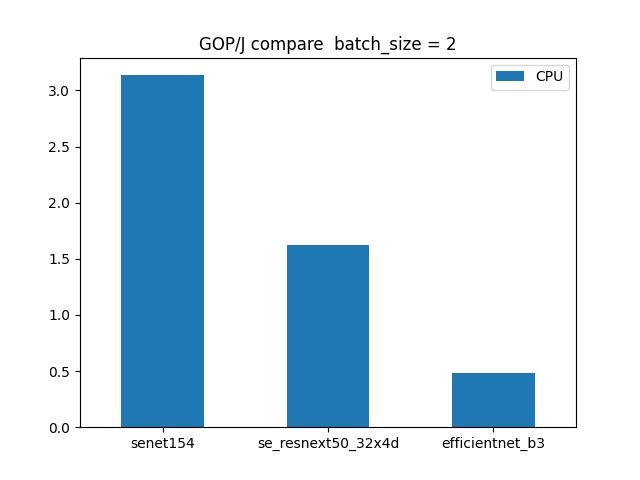
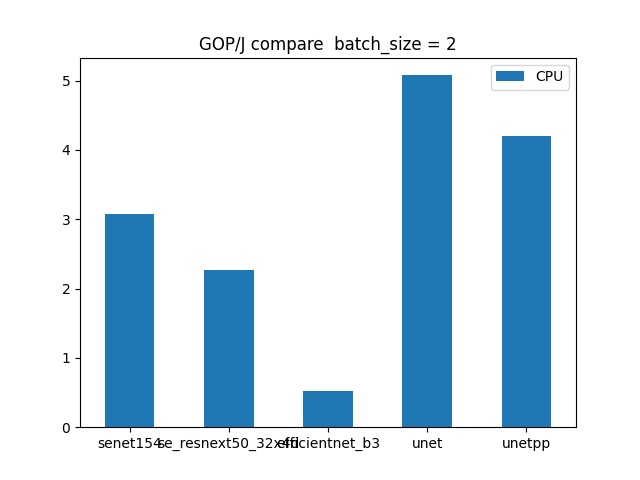
add unet-family

diff --git a/pretrained_models/models/unet.py b/pretrained_models/models/unet.py
@@ -1,120 +1,139 @@
 """
 unet.py - Model and module class for unet model
 """
-
+from os.path import samefile
 import torch
 import torch.nn as nn
 import torch.nn.functional as F
 from torch.utils import model_zoo
+import time
 
-PretrainedURL = ""
+PretrainedURL = r"C:\Users\10125\.cache\torch\hub\checkpoints\unet_carvana_scale1_epoch5.pth"
 __all__ = ["unet"]
 
 class DoubleConv(nn.Module):
-    def __init__(self, ch_in, ch_out, bilinear = False):
+    """(convolution => [BN] => ReLU) * 2"""
+
+    def __init__(self, in_channels, out_channels, mid_channels=None):
         super().__init__()
-        ch_mid = ch_out * 2 if bilinear else ch_out
+        if not mid_channels:
+            mid_channels = out_channels
         self.double_conv = nn.Sequential(
-            nn.Conv2d(ch_in, ch_mid, 3),
-            nn.BatchNorm2d(ch_mid),
+            nn.Conv2d(in_channels, mid_channels, kernel_size=3, padding=1),
+            nn.BatchNorm2d(mid_channels),
             nn.ReLU(inplace=True),
-            nn.Conv2d(ch_mid, ch_out, 3),
-            nn.BatchNorm2d(ch_out),
+            nn.Conv2d(mid_channels, out_channels, kernel_size=3, padding=1),
+            nn.BatchNorm2d(out_channels),
             nn.ReLU(inplace=True)
         )
 
     def forward(self, x):
-        x = self.double_conv(x)
-        return x
+        return self.double_conv(x)
 
-class DownSample(nn.Module):
-    def __init__(self, ch_in, ch_out, biliner = False):
+
+class Down(nn.Module):
+    """Downscaling with maxpool then double conv"""
+
+    def __init__(self, in_channels, out_channels):
         super().__init__()
-        self.max_pool_conv = nn.Sequential(
+        self.maxpool_conv = nn.Sequential(
             nn.MaxPool2d(2),
-            DoubleConv(ch_in, ch_out, biliner)
+            DoubleConv(in_channels, out_channels)
         )
 
     def forward(self, x):
-        x = self.max_pool_conv(x)
-        return x
+        return self.maxpool_conv(x)
 
-class UpSample(nn.Module):
-    def __init__(self, ch_in, ch_out, bilinear = True):
+
+class Up(nn.Module):
+    """Upscaling then double conv"""
+
+    def __init__(self, in_channels, out_channels, bilinear=True):
         super().__init__()
+
+        # if bilinear, use the normal convolutions to reduce the number of channels
         if bilinear:
-            self.up_conv = nn.Upsample(scale_factor = 2, mode = 'bilinear', align_corners = True)
-            self.conv = DoubleConv(ch_in, ch_out // 2, bilinear = True)
+            self.up = nn.Upsample(scale_factor=2, mode='bilinear', align_corners=True)
+            self.conv = DoubleConv(in_channels, out_channels, in_channels // 2)
         else:
-            self.up_conv = nn.ConvTranspose2d(ch_in, ch_in // 2, kernel_size = 2, stride = 2)
-            self.conv = DoubleConv(ch_in, ch_out)
-    
+            self.up = nn.ConvTranspose2d(in_channels , in_channels // 2, kernel_size=2, stride=2)
+            self.conv = DoubleConv(in_channels, out_channels)
+
+
     def forward(self, x1, x2):
-        x1 = self.up_conv(x1)
+        x1 = self.up(x1)
+        # input is CHW
+        diffY = x2.size()[2] - x1.size()[2]
+        diffX = x2.size()[3] - x1.size()[3]
 
-        deltax = x2.size()[3] - x1.size()[3]
-        deltay = x2.size()[2] - x1.size()[2]
+        x1 = F.pad(x1, [diffX // 2, diffX - diffX // 2,
+                        diffY // 2, diffY - diffY // 2])
+        # if you have padding issues, see
+        # https://github.com/HaiyongJiang/U-Net-Pytorch-Unstructured-Buggy/commit/0e854509c2cea854e247a9c615f175f76fbb2e3a
+        # https://github.com/xiaopeng-liao/Pytorch-UNet/commit/8ebac70e633bac59fc22bb5195e513d5832fb3bd
+        x = torch.cat([x2, x1], dim=1)
+        return self.conv(x)
 
-        x1 = F.pad(x1, [deltax // 2, deltax - deltax // 2,
-                        deltay // 2, deltay - deltay // 2])
-        
-        x = torch.cat([x2, x1], dim = 1)
-        x = self.conv(x)
-
-        return x
 
 class OutConv(nn.Module):
-    def __init__(self, ch_in, num_classes):
-        super().__init__()
-        self.out_conv = nn.Conv2d(ch_in, num_classes, kernel_size = 1, stride = 1)
-    
-    def forward(self, x):
-        x = self.out_conv(x)
-        return x
-
-
-class Unet_Net(nn.Module):
-    def __init__(self, ch_in, num_classes, up_mode = "bilinear"):
-        super(Unet_Net, self).__init__()
-        self.in_layer = DoubleConv(ch_in, 64)
-        self.down1 = DownSample(64, 128)
-        self.down2 = DownSample(128, 256)
-        self.down3 = DownSample(256, 512)
-        factor = 2 if up_mode == "bilinear" else 1
-        self.down4 = DownSample(512, 1024 // factor, biliner = True)
-        self.up1 = UpSample(1024, 512)
-        self.up2 = UpSample(512, 256)
-        self.up3 = UpSample(256, 128)
-        self.up4 = UpSample(128, 64)
-        self.out_layer = OutConv(64, num_classes)
+    def __init__(self, in_channels, out_channels):
+        super(OutConv, self).__init__()
+        self.conv = nn.Conv2d(in_channels, out_channels, kernel_size=1)
 
     def forward(self, x):
-        x0 = self.in_layer(x)
-        x1 = self.down1(x0)
-        x2 = self.down2(x1)
-        x3 = self.down3(x2)
-        x4 = self.down4(x3)
-        x5 = self.up1(x4, x3)
-        x6 = self.up2(x5, x2)
-        x7 = self.up3(x6, x1)
-        x8 = self.up4(x7, x0)
-        out_map = self.out_layer(x8)
+        return self.conv(x)
 
-        return out_map
+
+class UNet(nn.Module):
+    def __init__(self, n_channels, n_classes, bilinear=True):
+        super(UNet, self).__init__()
+        self.n_channels = n_channels
+        self.n_classes = n_classes
+        self.bilinear = bilinear
+
+        self.inc = DoubleConv(n_channels, 64)
+        self.down1 = Down(64, 128)
+        self.down2 = Down(128, 256)
+        self.down3 = Down(256, 512)
+        factor = 2 if bilinear else 1
+        self.down4 = Down(512, 1024 // factor)
+        self.up1 = Up(1024, 512 // factor, bilinear)
+        self.up2 = Up(512, 256 // factor, bilinear)
+        self.up3 = Up(256, 128 // factor, bilinear)
+        self.up4 = Up(128, 64, bilinear)
+        self.outc = OutConv(64, n_classes)
+
+    def forward(self, x):
+        x1 = self.inc(x)
+        x2 = self.down1(x1)
+        x3 = self.down2(x2)
+        x4 = self.down3(x3)
+        x5 = self.down4(x4)
+        x = self.up1(x5, x4)
+        x = self.up2(x, x3)
+        x = self.up3(x, x2)
+        x = self.up4(x, x1)
+        logits = self.outc(x)
+        return logits
 
 def load_pretrained_model(model, weight_path):
     if weight_path != None:
         _ = model.load_state_dict(weight_path)
         return
-    state_dict = model_zoo.load_url(PretrainedURL)
+    state_dict = model_zoo.load_url(PretrainedURL, map_location=torch.device("cpu"))
     _ = model.load_state_dict(state_dict)
 
-def unet(channel_input, num_classes, pretrained = True, weight_path = None):
-    model = Unet_Net(channel_input, num_classes)
+def unet(channel_input = 3, num_classes = 1, pretrained = True, weight_path = None):
+    model = UNet(channel_input, num_classes)
     if pretrained:
         load_pretrained_model(model, weight_path)
     return model
 
 if __name__ == "__main__":
-    model1 = Unet_Net(3, 2)
-    model1.eval()
+    model1 = unet()
+    image1 = torch.randn(1, 3, 224, 224)
+    start_time = time.time()
+    out = model1(image1)
+    end_time = time.time()
+    duration = (end_time - start_time) * 1000
+    print("the inference duration is ", duration)

diff --git a/pretrained_models/models/unetpp.py b/pretrained_models/models/unetpp.py
@@ -5,6 +5,9 @@ unet++.py - Model and module class for unet++ model
 import torch
 from torch import nn
 from torch.utils import model_zoo
+import time
+from thop import profile
+from ptflops import get_model_complexity_info
 
 PretrainedURL = ""
 __all__ = ['unet++']
@@ -104,15 +107,28 @@ def load_pretrained_model(model, weight_path):
     if weight_path != None:
         _ = model.load_state_dict(weight_path)
         return
-    state_dict = model_zoo.load_url(PretrainedURL)
+    state_dict = model_zoo.load_url(PretrainedURL, map_location=torch.device("cpu"))
     _ = model.load_state_dict(state_dict)
 
-def unetpp(channel_input, num_classes, pretrained = True, weight_path = None):
-    model = NestedUNet(channel_input, num_classes)
+def unetpp(num_classes = 1, channel_input = 3, pretrained = False, weight_path = None):
+    model = NestedUNet(num_classes, channel_input)
     if pretrained:
         load_pretrained_model(model, weight_path)
     return model
 
 if __name__ == "__main__":
-    model1 = NestedUNet(3, 2)
-    model1.eval()
+    model1 = NestedUNet(1, 3)
+    image1 = torch.randn(1, 3, 224, 224)
+    start_time = time.time()
+    out = model1(image1)
+    end_time = time.time()
+    duration = (end_time - start_time) * 1000
+    print("the inference duration is ", duration)
+
+    input_data = torch.randn(1, 3, 224, 224)
+    macs, params = profile(model1, inputs=(input_data, ))
+    print("the macs is ", macs)
+
+    macs, params = get_model_complexity_info(model1, (3,224,224), as_strings=True, 
+                    print_per_layer_stat=False, verbose=True) 
+    print("the another macs is ", macs)

diff --git a/benchmark_op.py b/benchmark_op.py
@@ -144,7 +144,7 @@ if __name__ == "__main__":
     warm_up = 5
     infer_epoch = 5
     batch_size_list = [1, 2, 4]
-    model_list = ["senet154", "se_resnext50_32x4d", "efficientnet_b3"]
+    model_list = ["senet154", "se_resnext50_32x4d", "efficientnet_b3", "unet", "unetpp"]
     hardware_info = {"CPU":15}
     dlh_bench = DLHBenchmark(warm_up, infer_epoch, batch_size_list,
                             model_list, hardware_info)
